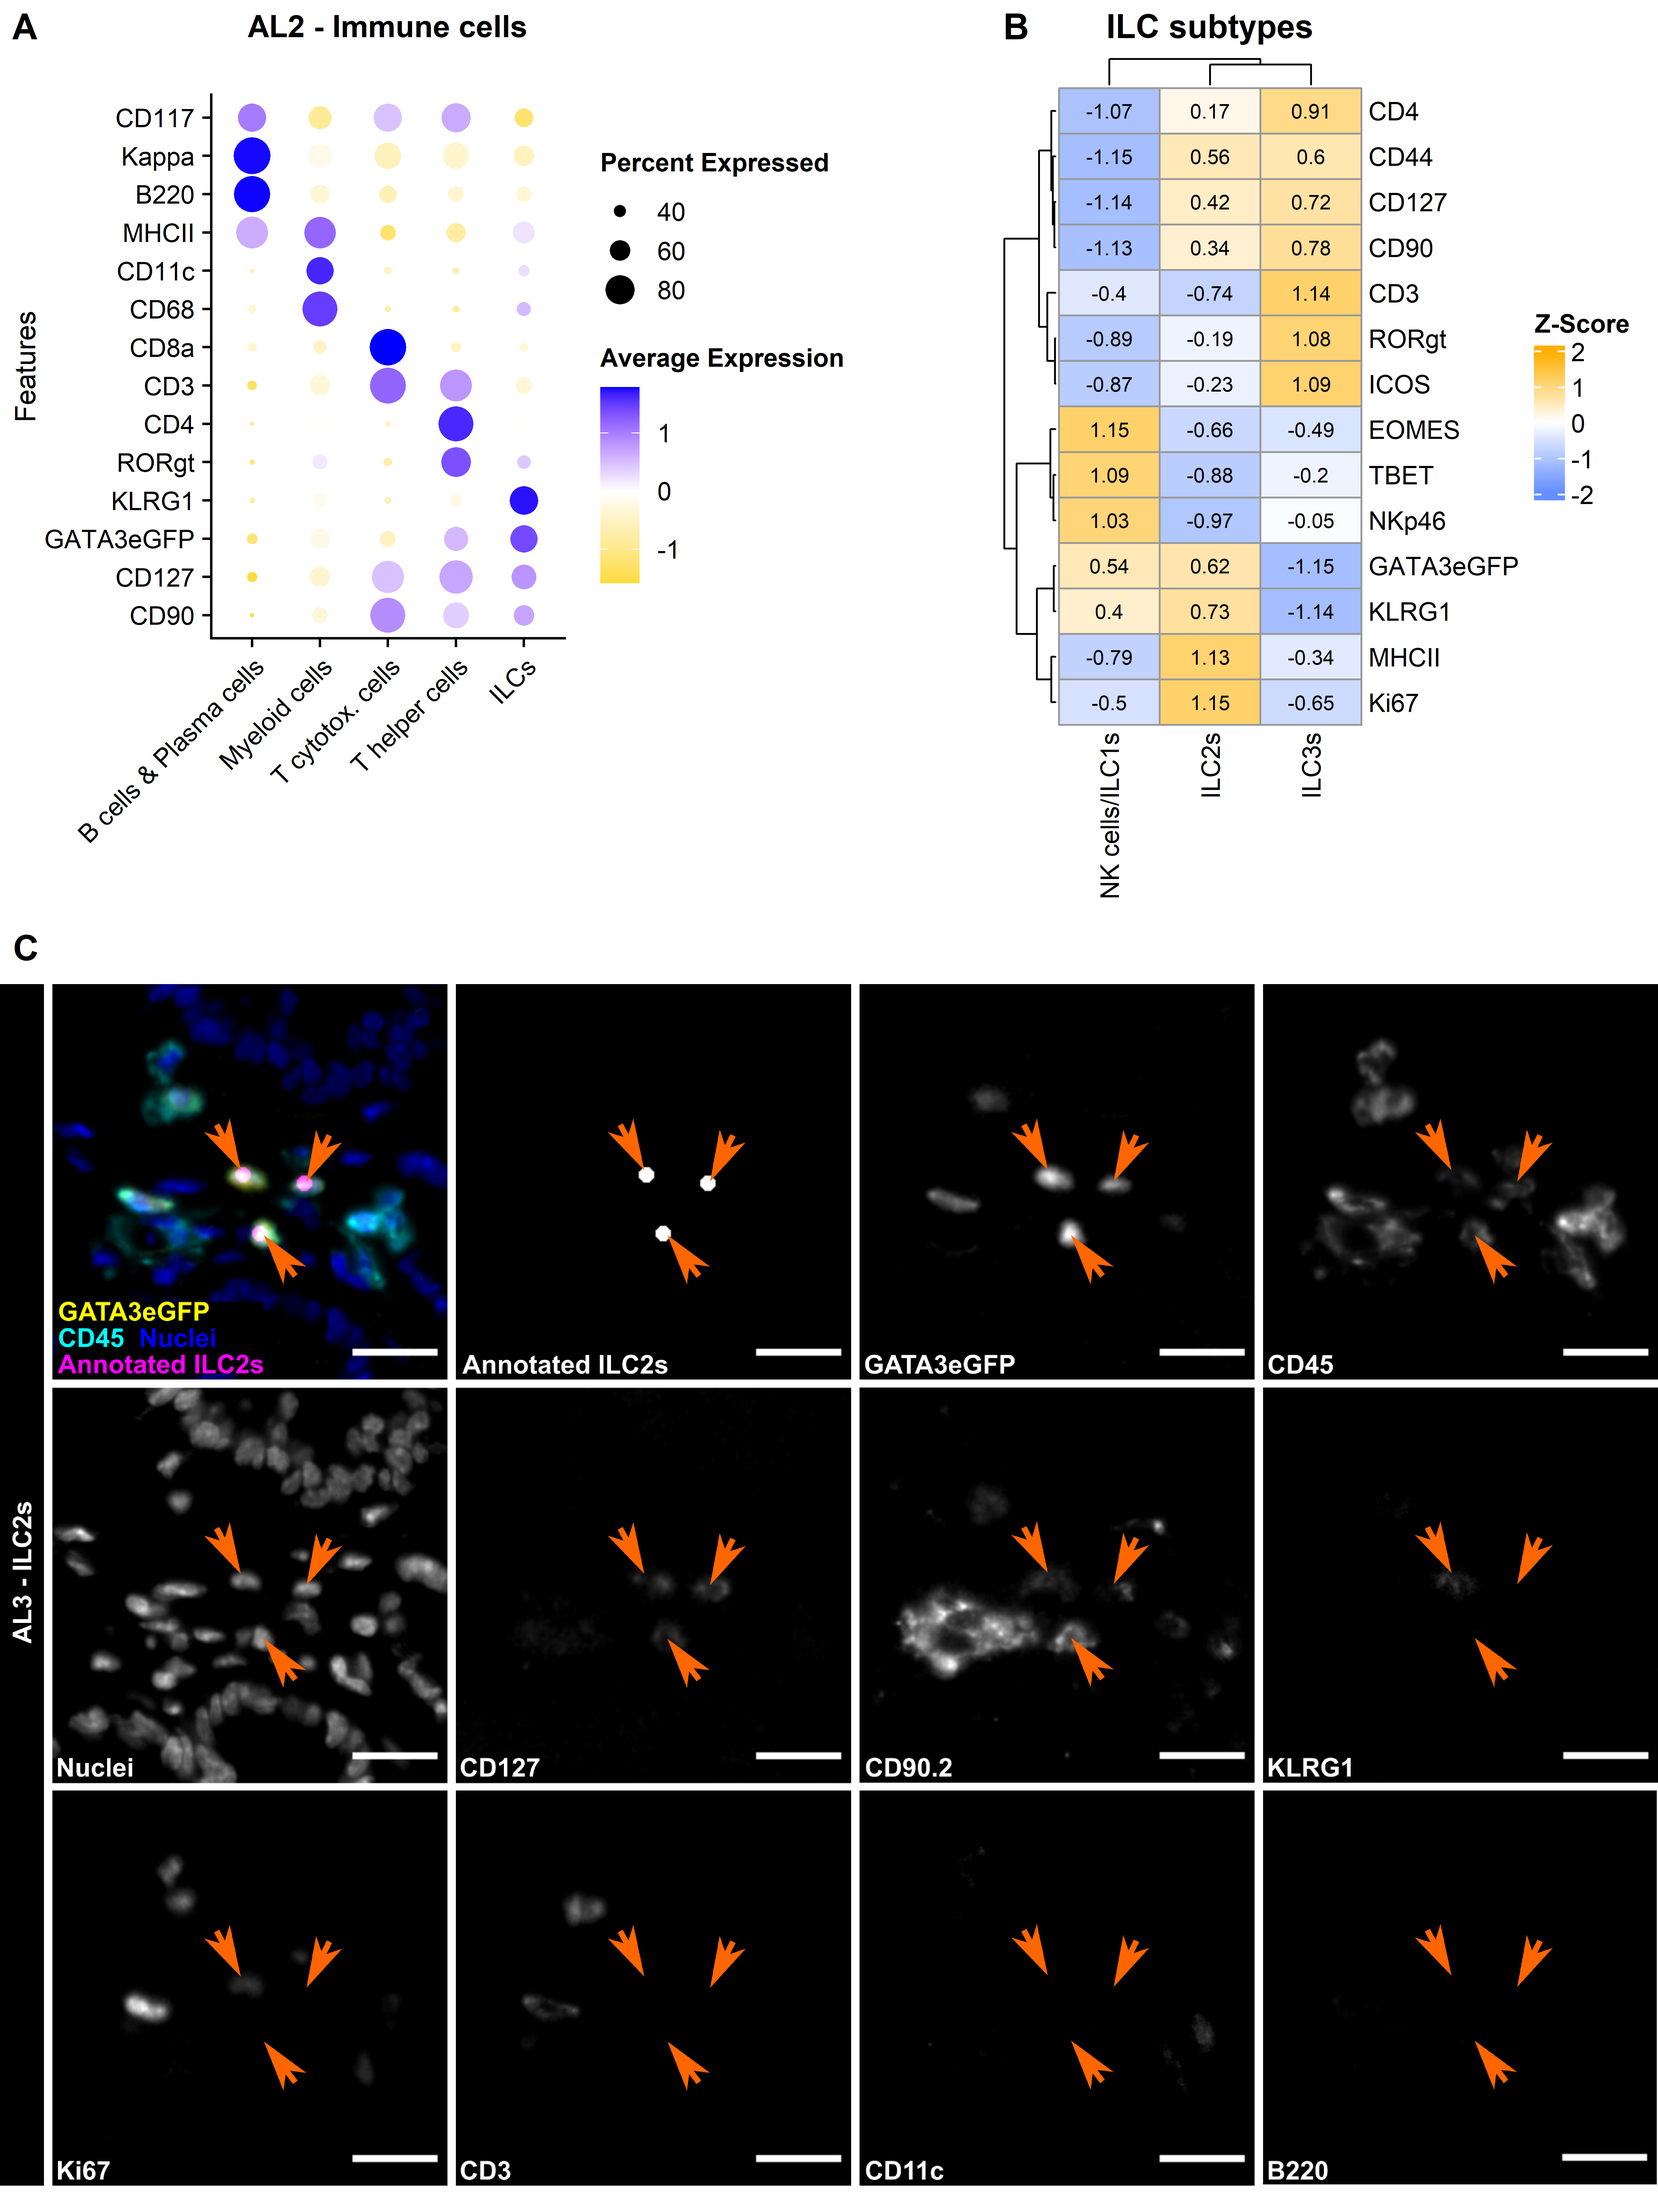
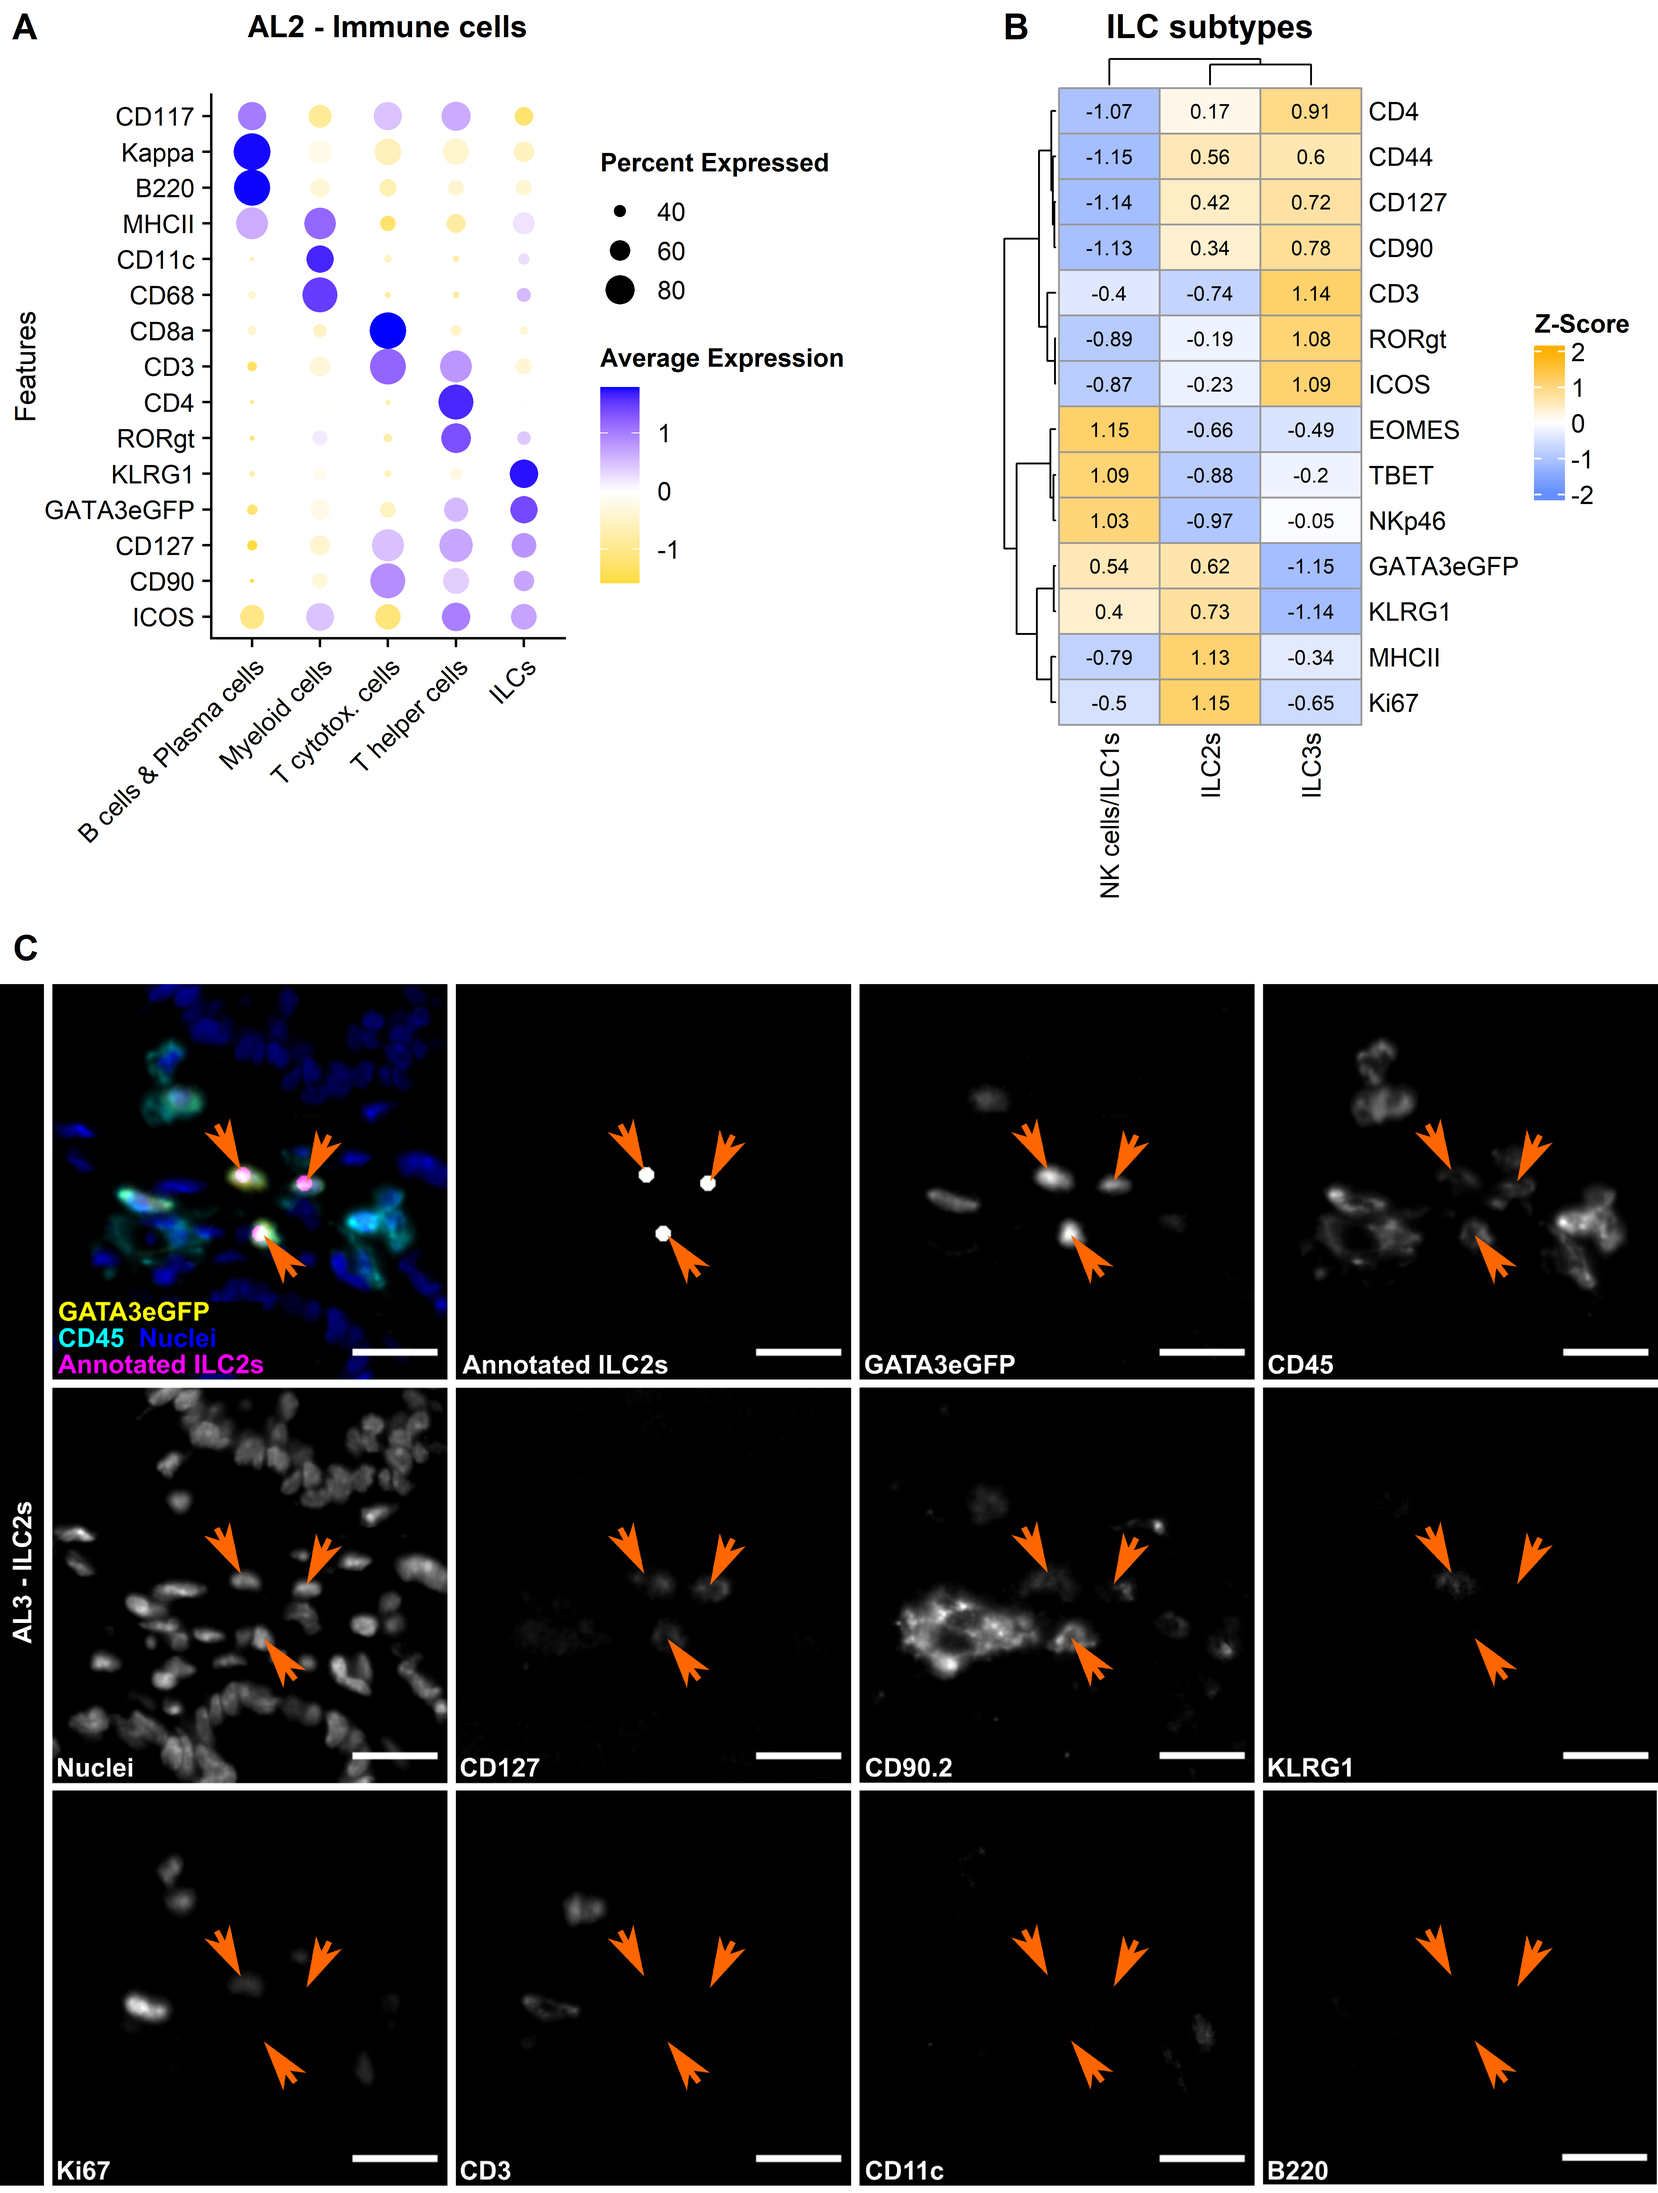
Added ICOS to the dot plot of all immune cells

Changed region(s): [[0.1867, 0.0625, 0.3422, 0.3123], [0.0311, 0.0625, 0.1556, 0.2811]]

diff --git a/2_visualizations_for_figures/Fig_4_ILCs_in_lung.md b/2_visualizations_for_figures/Fig_4_ILCs_in_lung.md
@@ -1,7 +1,7 @@
 ---
 title: "Figure 4: Immune cells, ILCs and ILC subtypes in lung"
 author: "Sandy Kroh"
-date: "April 27, 2026"
+date: "Mai 06, 2026"
 output:
   html_document:
     toc: yes
@@ -139,6 +139,7 @@ SO.lung$AL2 <- factor(SO.lung$AL2, levels = c(
 dot_plot <- Seurat::DotPlot(subset(SO.lung, subset = AL1 == "Immune cells"), 
                 group.by = "AL2",
                   features = c(
+                    "ICOS",
                     "CD90", 
                     "CD127", 
                     "GATA3eGFP", 
